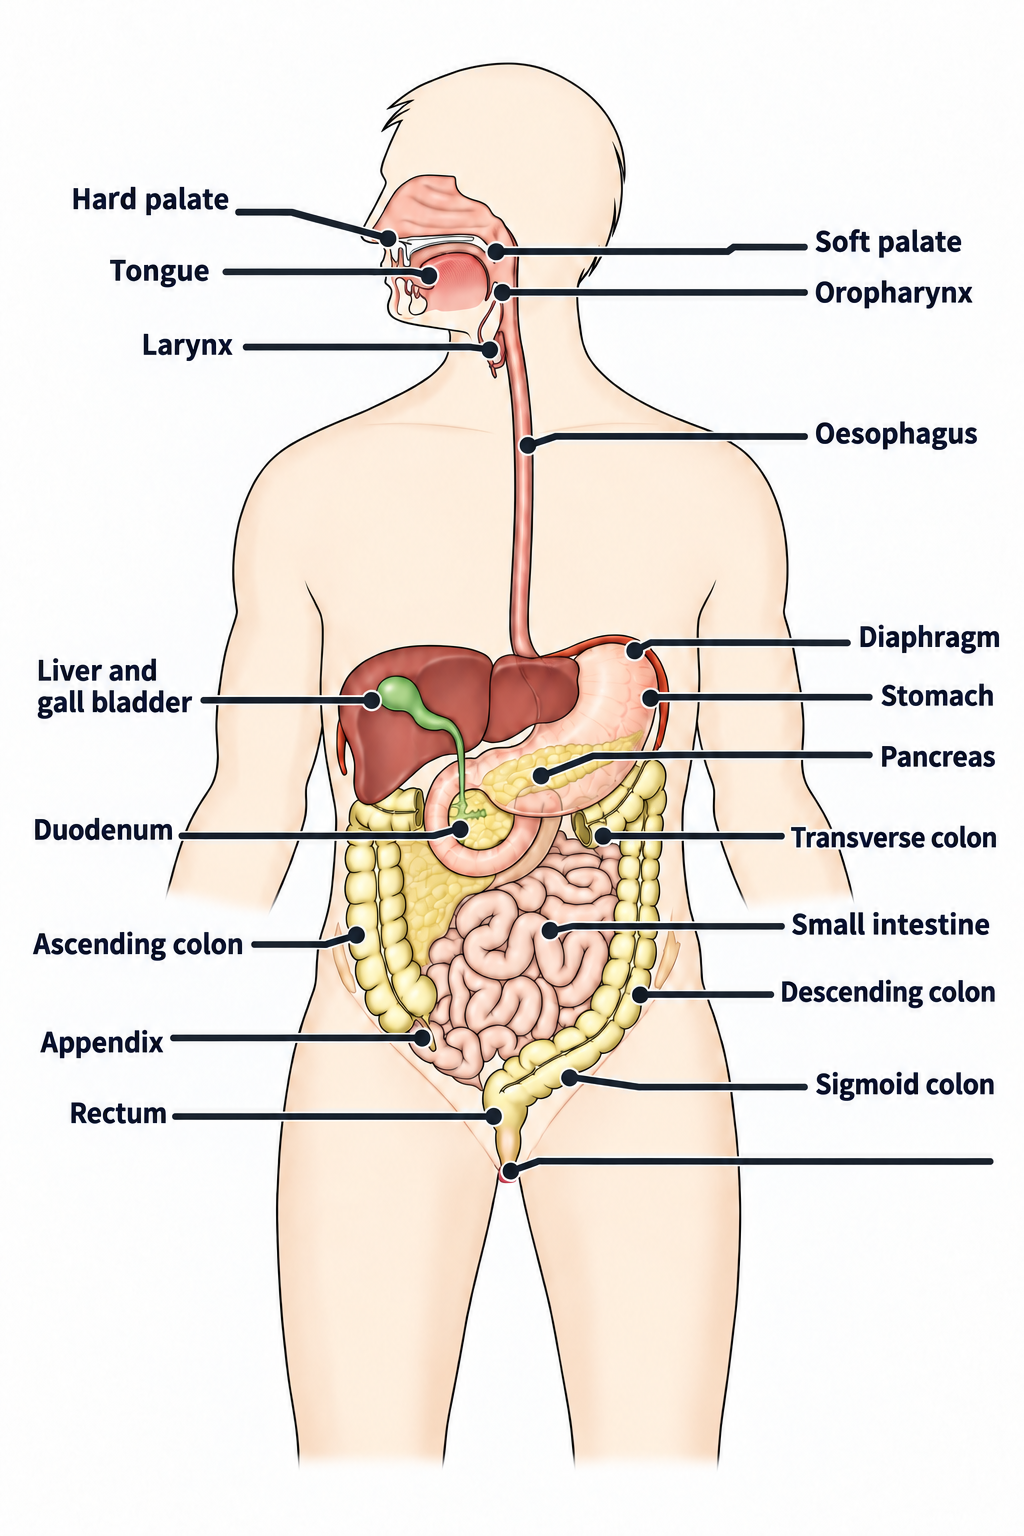
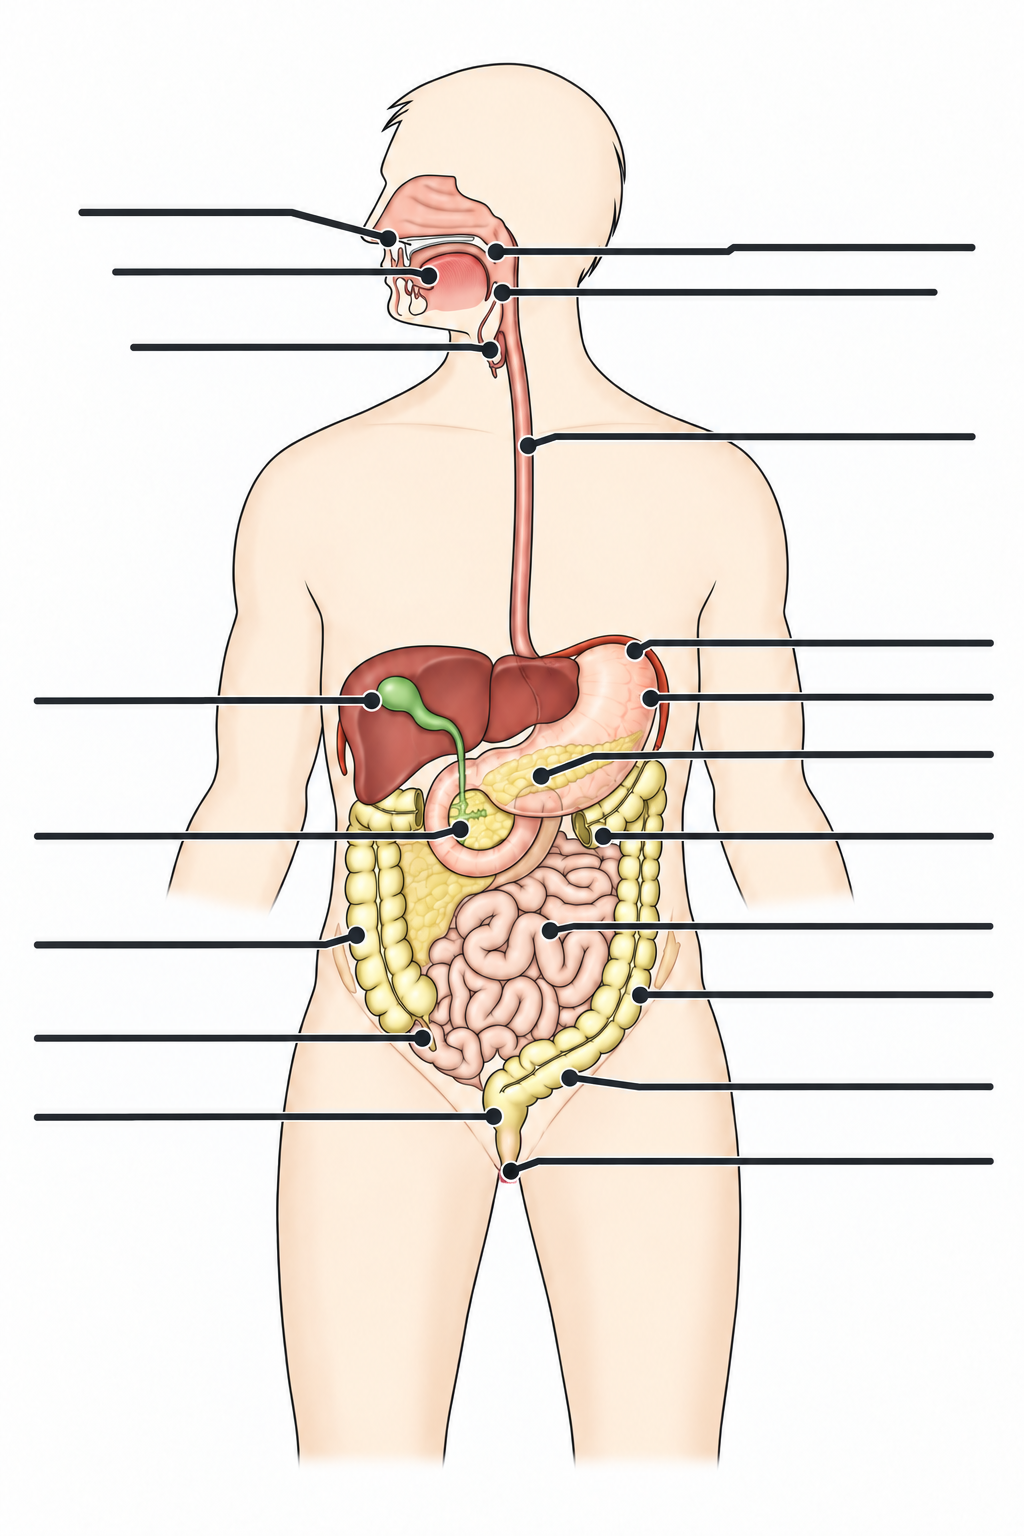
Expand digestive learning and shorten tests

diff --git a/learn-content.js b/learn-content.js
@@ -135,20 +135,30 @@ window.learnContent = {
   },
   digestive: {
     source: 'L3 Digestive System  v1 September 2020.pdf',
-    intro: 'The digestive system breaks food down mechanically and chemically, absorbs useful nutrients and water, and eliminates waste. It includes the alimentary canal and accessory organs that support digestion.',
+    intro: 'The digestive system is responsible for taking in food, breaking it down physically and chemically, absorbing useful nutrients and water, and eliminating waste. This page follows the supplied course material from the overall system and its five processes through the alimentary canal and accessory organs.',
     image: 'assets/diagrams/digestive-system.png',
     imageAlt: 'Labelled digestive system diagram',
     sections: [
-      ['01', 'Why we need food', 'Food supplies nutrients used for cellular energy, energy storage, heat production, growth and repair. Vitamins and minerals are also absorbed as part of the digestive process.'],
-      ['02', 'The five digestive stages', 'Digestion is described in five stages: ingestion takes food into the canal; propulsion mixes and moves it; digestion breaks it down mechanically and chemically; absorption transfers digested substances into blood and lymph; elimination excretes waste.'],
-      ['03', 'Autonomic control', 'The GI tract receives involuntary autonomic nerve supply. Parasympathetic rest-and-digest activity increases peristalsis and gland secretion, while sympathetic fight-or-flight activity reduces both.'],
-      ['04', 'Mouth and pharynx', 'The tongue propels the food bolus, teeth carry out mechanical digestion by chewing, and salivary enzymes begin chemical digestion. The pharynx is shared with the respiratory tract and the epiglottis helps keep food and fluid out of the lungs.'],
-      ['05', 'Oesophagus and peristalsis', 'The oesophagus is a collapsible muscular tube from the pharynx to the stomach. Rhythmic muscular contractions called peristalsis push food in one direction, and sphincters act as valves.'],
-      ['06', 'The stomach', 'The stomach churns food for mechanical digestion and mixes it with gastric juices, hydrochloric acid and enzymes. Liquefied food becomes chyme, which passes through the pyloric sphincter into the duodenum.'],
-      ['07', 'Small intestine', 'The small intestine includes the duodenum, jejunum and ileum. The bile and pancreatic ducts empty into the duodenum, while villi create a large surface area for digestion and absorption into blood vessels.'],
-      ['08', 'Large intestine and peritoneum', 'The large intestine absorbs electrolytes and vitamins and stores and expels faeces. The peritoneum is a serous membrane that covers abdominal organs, reduces friction and attaches them to the posterior abdominal wall.'],
-      ['09', 'The liver and gallbladder', 'The liver produces bile, processes carbohydrates, lipids and proteins, processes drugs and hormones, excretes bilirubin, stores vitamins and minerals, and breaks down cells. The gallbladder stores and concentrates bile before releasing it into the duodenum.'],
-      ['10', 'The pancreas', 'The pancreas has an exocrine function, secreting digestive enzymes in pancreatic juice, and an endocrine function, secreting insulin and glucagon to control blood sugar. It lies behind the stomach.']
+      ['01', 'Learning objectives and why we need food', 'The source document aims to explain the structure and functions of the digestive system. Food provides nutrients for use as energy by cells, storage of energy, production of heat, and growth and repair. Essential nutrients are presented as three basic food groups; minerals and vitamins are also absorbed.', true],
+      ['02', 'The components of the digestive system', 'The digestive system is the collective name for three related parts: the digestive processes, the alimentary canal (also called the gastrointestinal or GI tract), and the accessory organs of digestion. The alimentary canal is the continuous route through which food passes, while accessory organs produce substances that support digestion.', true],
+      ['03', 'The five digestive processes', 'Food is physically and chemically complex, so it passes through five stages before useful substances can enter the bloodstream and lymph. Ingestion is taking food into the alimentary canal. Propulsion mixes and moves food along the canal. Digestion is mechanical and chemical breakdown. Absorption moves digested substances into blood and lymph vessels. Elimination is the excretion of waste.', true],
+      ['04', 'Nerve supply to the GI tract', 'The GI tract is supplied by the autonomic nervous system and is therefore controlled involuntarily. Parasympathetic activity, often called rest and digest, increases peristalsis and gland secretion, including gastric juice and enzymes. Sympathetic fight-or-flight activity reduces peristalsis and secretion. The two influences interact: activity such as eating increases parasympathetic activity.', true],
+      ['05', 'The alimentary tract', 'The alimentary canal is also termed the gastrointestinal or GI tract. It actively transports the flow of food through the whole digestive process, from ingestion through propulsion, digestion and absorption to elimination. The labelled overview includes the mouth, pharynx, oesophagus, stomach, small intestine, large intestine, rectum and anus.', true],
+      ['06', 'The mouth and oral cavity', 'The mouth, or oral cavity, contains the tongue, teeth and salivary glands. The tongue forms and propels the food bolus into the oesophagus. Teeth chew food, breaking it down mechanically. Saliva contains enzymes that begin chemical digestion before the bolus leaves the mouth.', true],
+      ['07', 'The pharynx and epiglottis', 'The pharynx, or throat, is an expanded muscular tube behind the nose and mouth and is shared with the respiratory tract. The source diagram divides it into three parts. The epiglottis is a leaf-shaped plate of yellow fibro-elastic cartilage at the entrance to the larynx. During swallowing it covers the trachea, helping stop food and fluids entering the lungs.', true],
+      ['08', 'The oesophagus', 'The oesophagus, or gullet, is a collapsible muscular tube descending from the pharynx to the stomach. In an adult it is approximately 25 cm long and 2 cm in diameter. It is made of smooth muscle, elastic tissue and a mucous membrane. Sphincters act as valves, while peristalsis moves the bolus down towards the stomach.', true],
+      ['09', 'Peristalsis', 'Peristalsis is the movement of food throughout the digestive system. It is produced by rhythmic muscular contractions in the walls of the tract. The contractions push food in one direction and support propulsion through the alimentary canal.', true],
+      ['10', 'The stomach: structure and protection', 'The stomach is a muscular, bag-like organ whose walls are lined with a mucous membrane. At its connection with the oesophagus it contains the cardiac sphincter. This sphincter helps prevent regurgitation, or the movement of stomach contents back into the oesophagus.', true],
+      ['11', 'The stomach: mechanical and chemical digestion', 'For mechanical digestion, the stomach contracts in different ways to churn food. For chemical digestion, it mixes food with gastric juices, hydrochloric acid and enzymes, liquefying the contents. Once food has been liquefied in the stomach it is called chyme. Chyme passes into the duodenum through the pyloric sphincter, which also helps prevent contents moving back into the stomach from the duodenum.', true],
+      ['12', 'The duodenum', 'The duodenum is approximately 25 cm long in an adult and is the first part of the small intestine. Both the bile duct and the pancreatic duct empty into it. Chemical digestion of carbohydrates, proteins and fats occurs across the small intestine, beginning with the contents entering the duodenum.', true],
+      ['13', 'The small intestine', 'The small intestine is approximately 5 metres long. It is a muscular tube lined with connective tissue and a mucous membrane. It comprises the duodenum, jejunum and ileum, is continuous with the duodenum above and the large intestine below, and is the site of most water absorption.', true],
+      ['14', 'Small-intestine surface area and absorption', 'The outer covering of the small intestine is formed by the peritoneum. Its large surface area supports digestion and absorption. Finger-like villi increase the available surface area. Nutrients pass through the inner lining and are absorbed by blood vessels contained in the wall of the intestine.', true],
+      ['15', 'The large intestine', 'The large intestine, or colon, is approximately 1.5 metres long. It absorbs electrolytes and vitamins, then stores and expels faeces. The labelled diagram identifies the appendix, ascending colon, transverse colon, descending colon, sigmoid colon and rectum as parts of the lower digestive tract.', true],
+      ['16', 'The peritoneum', 'The peritoneum is a serous membrane that lines the abdominal cavity. It has two layers that cover the abdominal organs. Serous fluid between the layers helps prevent friction as the organs move. The peritoneum attaches organs to the posterior abdominal wall and carries blood vessels that help fight infection.', true],
+      ['17', 'Accessory organs of digestion', 'Accessory organs produce some of the chemicals necessary for digestion. The source document lists the salivary glands, liver and pancreas. They support the alimentary canal by adding saliva, bile and pancreatic secretions, even though food does not pass through the organs themselves.', true],
+      ['18', 'The main functions of the liver', 'The liver carries out carbohydrate, lipid (fat) and protein metabolism. It processes drugs and hormones, excretes bilirubin, produces bile, and stores vitamins and minerals. It also carries out phagocytosis, breaking down cells. The source describes the liver as the highest heat-producing organ in the body: it makes, breaks down and stores substances.', true],
+      ['19', 'The gallbladder and bile', 'The main function of bile is to help digest fat and aid its absorption. The gallbladder stores and concentrates bile, then releases it into the small intestine, specifically the first part, the duodenum. Bile therefore links the liver and gallbladder with digestion and absorption in the small intestine.', true],
+      ['20', 'The pancreas', 'The pancreas is a dual-function organ approximately 12–15 cm long and positioned behind the stomach. Its exocrine function is to secrete digestive enzymes in pancreatic juice to aid digestion. Its endocrine function is to secrete the hormones insulin and glucagon, which control blood sugar levels.', true]
     ]
   }
 };

diff --git a/question-bank.js b/question-bank.js
@@ -520,7 +520,7 @@ window.diagramQuestionDatabase = [
   { id: 'diagram-respiratory-01', topic: 'respiratory', type: 'diagram', question: 'Drag each airway label onto the matching structure.', explanation: 'Air passes through the nasopharynx and mouth, down the trachea, through the bronchial tree and into the lungs. The diaphragm supports ventilation.', diagram: { image: 'assets/test-diagrams/respiratory-system-test.png', alt: 'Respiratory system diagram for the test', labels: [{ id: 'nasopharynx', name: 'Nasopharynx', x: 20, y: 11, targetWidth: 260, targetHeight: 58 }, { id: 'mouth', name: 'Mouth', x: 71, y: 21, targetWidth: 250, targetHeight: 58 }, { id: 'trachea', name: 'Trachea', x: 70, y: 41, targetWidth: 300, targetHeight: 150 }, { id: 'lungs', name: 'Lungs', x: 20, y: 41, targetWidth: 360, targetHeight: 90 }, { id: 'bronchial-tree', name: 'Bronchial tree', x: 18, y: 61, targetWidth: 380, targetHeight: 150 }, { id: 'diaphragm', name: 'Diaphragm', x: 68, y: 83, targetWidth: 440, targetHeight: 180 }] } },
   { id: 'diagram-nervous-01', topic: 'nervous', type: 'diagram', question: 'Drag the central and peripheral nervous system labels onto the diagram.', explanation: 'The central nervous system is the brain and spinal cord. The peripheral nervous system is the network of nerves outside them.', diagram: { image: 'assets/test-diagrams/nervous-system-test.png', alt: 'Central and peripheral nervous system diagram for the test', labels: [{ id: 'central', name: 'Central nervous system', x: 80, y: 9, targetWidth: 320, targetHeight: 180 }, { id: 'peripheral', name: 'Peripheral nervous system', x: 81, y: 68, targetWidth: 320, targetHeight: 180 }] } },
   { id: 'diagram-lymphatic-urinary-reproductive-01', topic: 'lymphatic-urinary-reproductive', type: 'diagram', question: 'Drag each label onto the matching structure in the combined systems diagram.', explanation: 'The kidneys filter blood and form urine, the bladder stores urine, and lymphatic vessels return excess tissue fluid to the circulation.', diagram: { image: 'assets/test-diagrams/lymphatic-urinary-reproductive-test.svg', alt: 'Lymphatic, urinary and reproductive systems diagram for the test', labels: [{ id: 'lymph-vessels', name: 'Lymphatic vessels', x: 13, y: 19, targetWidth: 270, targetHeight: 70 }, { id: 'kidneys', name: 'Kidneys', x: 79, y: 40 }, { id: 'bladder', name: 'Bladder', x: 77, y: 65 }, { id: 'reproductive-organs', name: 'Reproductive organs', x: 79, y: 90, targetWidth: 270, targetHeight: 70 }] } },
-  { id: 'diagram-digestive-01', topic: 'digestive', type: 'diagram', question: 'Drag each label onto the matching structure in the digestive system diagram.', explanation: 'Food travels from the mouth through the oesophagus, stomach and intestines. The liver, gallbladder and pancreas are accessory organs that support digestion.', diagram: { image: 'assets/test-diagrams/digestive-system-test.png', alt: 'Digestive system diagram for the test', labels: [{ id: 'tongue', name: 'Tongue', x: 28, y: 14 }, { id: 'oesophagus', name: 'Oesophagus', x: 34, y: 22 }, { id: 'liver-gallbladder', name: 'Liver and gallbladder', x: 24, y: 34 }, { id: 'stomach', name: 'Stomach', x: 42, y: 34 }, { id: 'pancreas', name: 'Pancreas', x: 35, y: 38 }, { id: 'duodenum', name: 'Duodenum', x: 30, y: 41 }, { id: 'small-intestine', name: 'Small intestine', x: 36, y: 45 }, { id: 'descending-colon', name: 'Descending colon', x: 42, y: 49 }] } }
+  { id: 'diagram-digestive-01', topic: 'digestive', type: 'diagram', question: 'Drag each label onto the matching structure in the digestive system diagram.', explanation: 'Food travels from the mouth through the oesophagus, stomach and intestines. The liver, gallbladder and pancreas are accessory organs that support digestion, while the colon, rectum and anus complete the lower digestive tract.', diagram: { image: 'assets/test-diagrams/digestive-system-test.png', alt: 'Digestive system diagram for the test', labels: [{ id: 'hard-palate', name: 'Hard palate', x: 25, y: 12 }, { id: 'tongue', name: 'Tongue', x: 28, y: 14 }, { id: 'larynx', name: 'Larynx', x: 32, y: 17 }, { id: 'soft-palate', name: 'Soft palate', x: 32, y: 12 }, { id: 'oropharynx', name: 'Oropharynx', x: 33, y: 14 }, { id: 'oesophagus', name: 'Oesophagus', x: 34, y: 22 }, { id: 'diaphragm', name: 'Diaphragm', x: 41, y: 32 }, { id: 'liver-gallbladder', name: 'Liver and gallbladder', x: 24, y: 34 }, { id: 'stomach', name: 'Stomach', x: 42, y: 34 }, { id: 'pancreas', name: 'Pancreas', x: 35, y: 38 }, { id: 'duodenum', name: 'Duodenum', x: 30, y: 41 }, { id: 'transverse-colon', name: 'Transverse colon', x: 39, y: 41 }, { id: 'ascending-colon', name: 'Ascending colon', x: 23, y: 46 }, { id: 'small-intestine', name: 'Small intestine', x: 36, y: 45 }, { id: 'descending-colon', name: 'Descending colon', x: 42, y: 49 }, { id: 'appendix', name: 'Appendix', x: 27, y: 51 }, { id: 'sigmoid-colon', name: 'Sigmoid colon', x: 37, y: 52 }, { id: 'rectum', name: 'Rectum', x: 32, y: 55 }, { id: 'anus', name: 'Anus', x: 33, y: 57 }] } }
 ];
 
 window.questionDatabase = questionDatabase;

diff --git a/learn.css b/learn.css
@@ -1,2 +1,3 @@
 .source-line{display:flex;align-items:center;gap:9px;padding:9px 11px;background:#f1f7f4;border-left:3px solid #7bb9ac;color:#66777b;font-size:11px;margin-bottom:20px}.source-line span{font-size:10px;text-transform:uppercase;letter-spacing:.6px;font-weight:700;color:#397e6f}.learn-section{display:flex;gap:18px;border-top:1px solid #edf1f0;padding:20px 0;max-width:760px}.learn-section-number{color:#5a9e91;font-weight:700;font-size:12px}.learn-section h2{font-size:15px;margin:0 0 7px;color:#203c43}.learn-section p{font-size:13px;line-height:1.7;color:#66777b;margin:0}.learn-figure{margin:24px 0 26px;max-width:760px;background:#f7faf9;border:1px solid #e1e9e7;padding:12px}.learn-figure img{display:block;width:100%;max-height:430px;object-fit:contain;background:#fff}.learn-figure figcaption{font-size:10px;color:#7e9090;margin-top:8px}.learn-figure.secondary{display:inline-block;width:48%;vertical-align:top;margin:18px 2% 20px 0}.learn-figure.secondary:nth-of-type(odd){margin-right:0}.learn-footer-note{border-top:1px solid #edf1f0;margin-top:15px;padding-top:14px;color:#849494;font-size:11px;line-height:1.5}@media(max-width:650px){.source-line{display:block}.source-line span{display:block;margin-bottom:4px}.learn-figure.secondary{display:block;width:100%;margin-right:0}}
+.learn-collapsible{display:block;padding:0}.learn-collapsible summary{display:flex;align-items:center;gap:18px;padding:19px 0;cursor:pointer;list-style:none}.learn-collapsible summary::-webkit-details-marker{display:none}.learn-section-title{flex:1;font-size:15px;font-weight:600;color:#203c43}.learn-section-toggle{display:grid;place-items:center;width:22px;height:22px;border:1px solid #b9d5cf;border-radius:50%;color:#397e6f;font-size:16px;font-weight:400;line-height:1}.learn-collapsible[open] .learn-section-toggle{transform:rotate(45deg)}.learn-collapsible>p{padding:0 40px 20px 30px;margin:0;font-size:13px;line-height:1.7;color:#66777b}.learn-collapsible:focus-within summary{outline:2px solid #f2bf68;outline-offset:3px}
 body[data-theme="dark"] .source-line{background:#294b46;border-color:#5a9e91;color:#b1c3c1}body[data-theme="dark"] .source-line span{color:#a9d7ca}body[data-theme="dark"] .learn-section{border-color:#344b4f}body[data-theme="dark"] .learn-section h2{color:#e0efed}body[data-theme="dark"] .learn-section p,body[data-theme="dark"] .learn-footer-note{color:#9db0b0}body[data-theme="dark"] .learn-figure{background:#263f43;border-color:#3b5558}body[data-theme="dark"] .learn-figure img{background:#fff}body[data-theme="dark"] .learn-figure figcaption{color:#9db0b0}

diff --git a/learn-page.js b/learn-page.js
@@ -5,7 +5,7 @@ const learnPageContent = document.getElementById('page-content');
 function renderDetailedLearnPage(learnData) {
   const sourceLine = `<div class="source-line"><span>Source material</span>${learnData.source}</div>`;
   const heroImage = learnData.image ? `<figure class="learn-figure"><img src="${learnData.image}" alt="${learnData.imageAlt}"><figcaption>Diagram from the supplied course material.</figcaption></figure>` : '';
-  const sections = learnData.sections.map(([number, title, copy]) => `<section class="learn-section"><span class="learn-section-number">${number}</span><div><h2>${title}</h2><p>${copy}</p></div></section>`).join('');
+  const sections = learnData.sections.map(([number, title, copy, expanded]) => expanded === undefined ? `<section class="learn-section"><span class="learn-section-number">${number}</span><div><h2>${title}</h2><p>${copy}</p></div></section>` : `<details class="learn-section learn-collapsible"${expanded ? ' open' : ''}><summary><span class="learn-section-number">${number}</span><span class="learn-section-title">${title}</span><span class="learn-section-toggle" aria-hidden="true">+</span></summary><p>${copy}</p></details>`).join('');
   const secondaryImages = (learnData.secondaryImages || []).map((image) => `<figure class="learn-figure secondary"><img src="${image.src}" alt="${image.alt}"><figcaption>Diagram from the supplied course material.</figcaption></figure>`).join('');
   const learnt = window.lasProgress?.isLearnt(learnTopic);
   learnPageContent.innerHTML = `${sourceLine}<p class="page-lead">${learnData.intro}</p>${heroImage}<div class="learn-sections">${sections}</div>${secondaryImages}<div class="learn-footer-note">Use this page alongside the source document in the course materials. The diagrams are included to support visual recall of key structures.</div><p><button class="page-button" id="mark-topic-learnt">${learnt ? 'Topic learnt' : 'Mark topic as learnt'} <span>✓</span></button></p>`;

diff --git a/index.html b/index.html
@@ -45,7 +45,7 @@
 
     <main class="main-content">
       <header class="topbar">
-        <span class="app-version">v1.0.8</span>
+        <span class="app-version">v1.0.9</span>
         <div class="breadcrumb"><span>Workspace</span><b>/</b><strong>Overview</strong></div>
         <div class="top-actions"><button class="streak"><span>✦</span> 4 day streak</button><button class="theme-toggle" id="theme-toggle" type="button" aria-pressed="false"><span class="theme-icon">☾</span><span class="theme-label">Dark mode</span></button><button class="icon-button" aria-label="Notifications">♢<i></i></button><div class="mini-avatar">LR</div></div>
       </header>

diff --git a/study-page.js b/study-page.js
@@ -99,7 +99,7 @@ function shuffledSessionQuestions() {
   }
   if (mode !== 'test' && mode !== 'focused-test') return selected;
   const diagrams = selected.filter((question) => question.type === 'diagram');
-  const ordinary = selected.filter((question) => question.type !== 'diagram').slice(0, diagrams.length ? 49 : 50);
+  const ordinary = selected.filter((question) => question.type !== 'diagram').slice(0, diagrams.length ? 29 : 30);
   if (diagrams.length) ordinary.splice(Math.floor(Math.random() * (ordinary.length + 1)), 0, diagrams[0]);
   return ordinary;
 }
